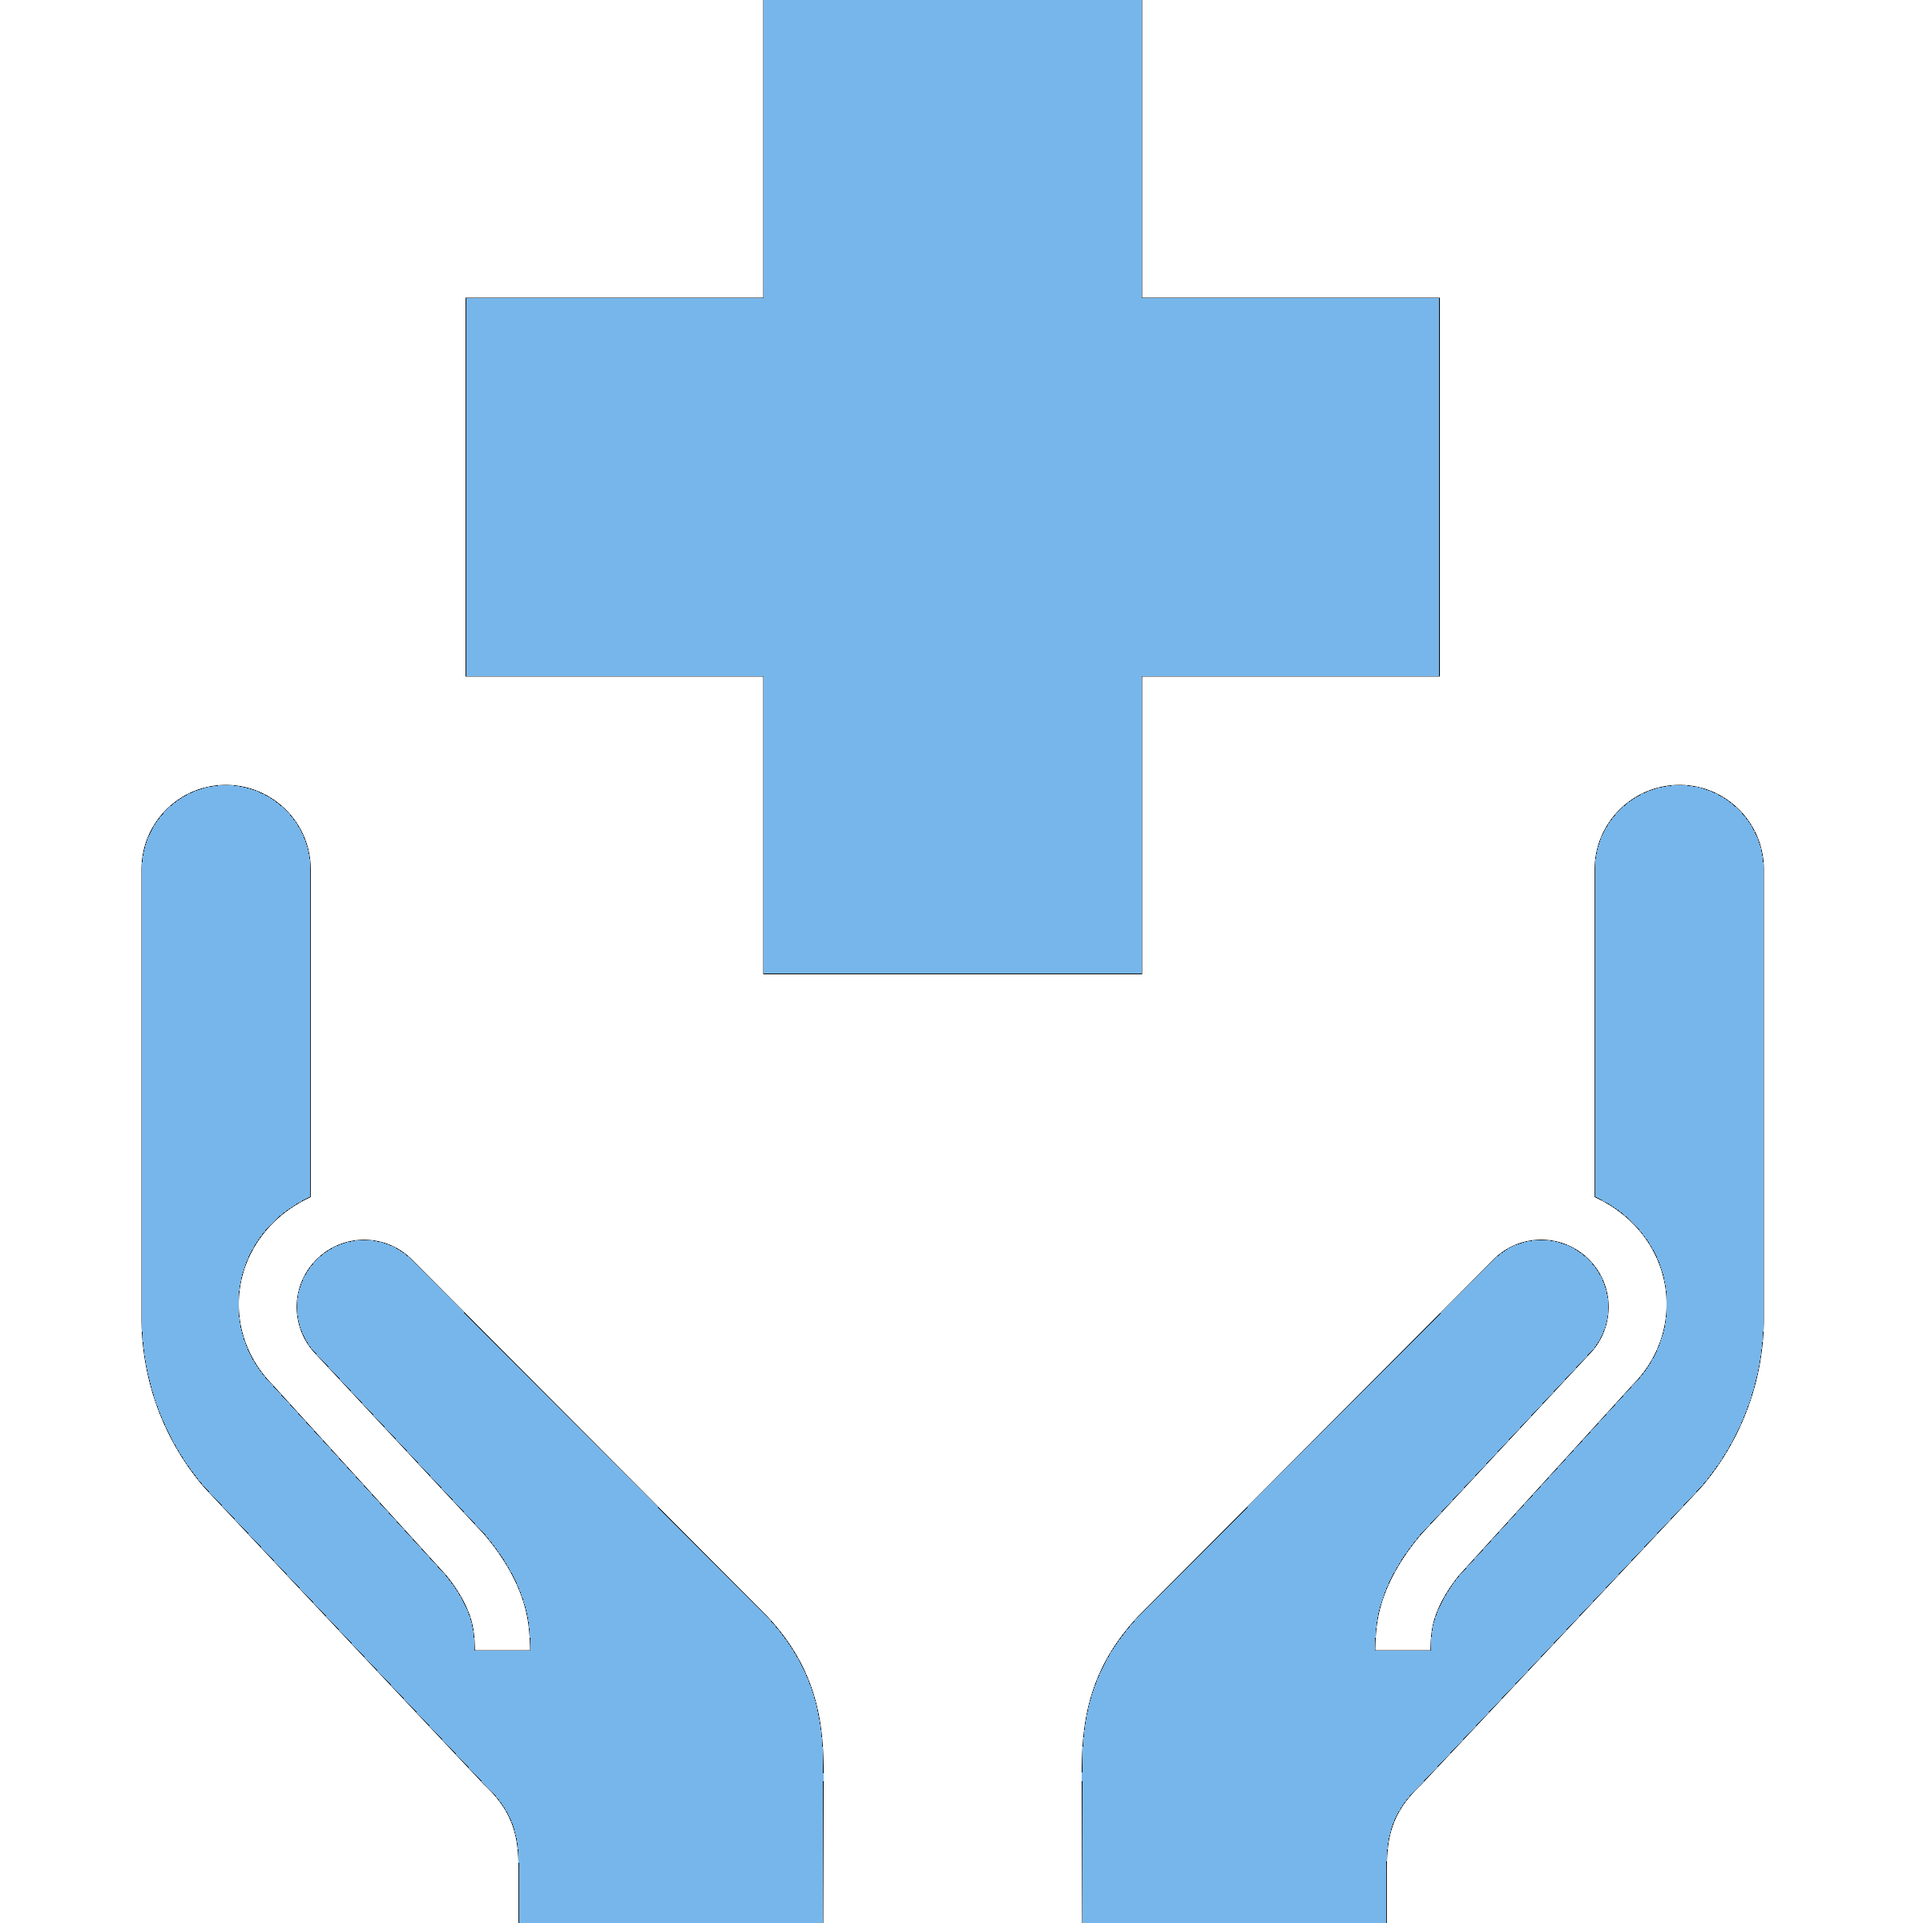
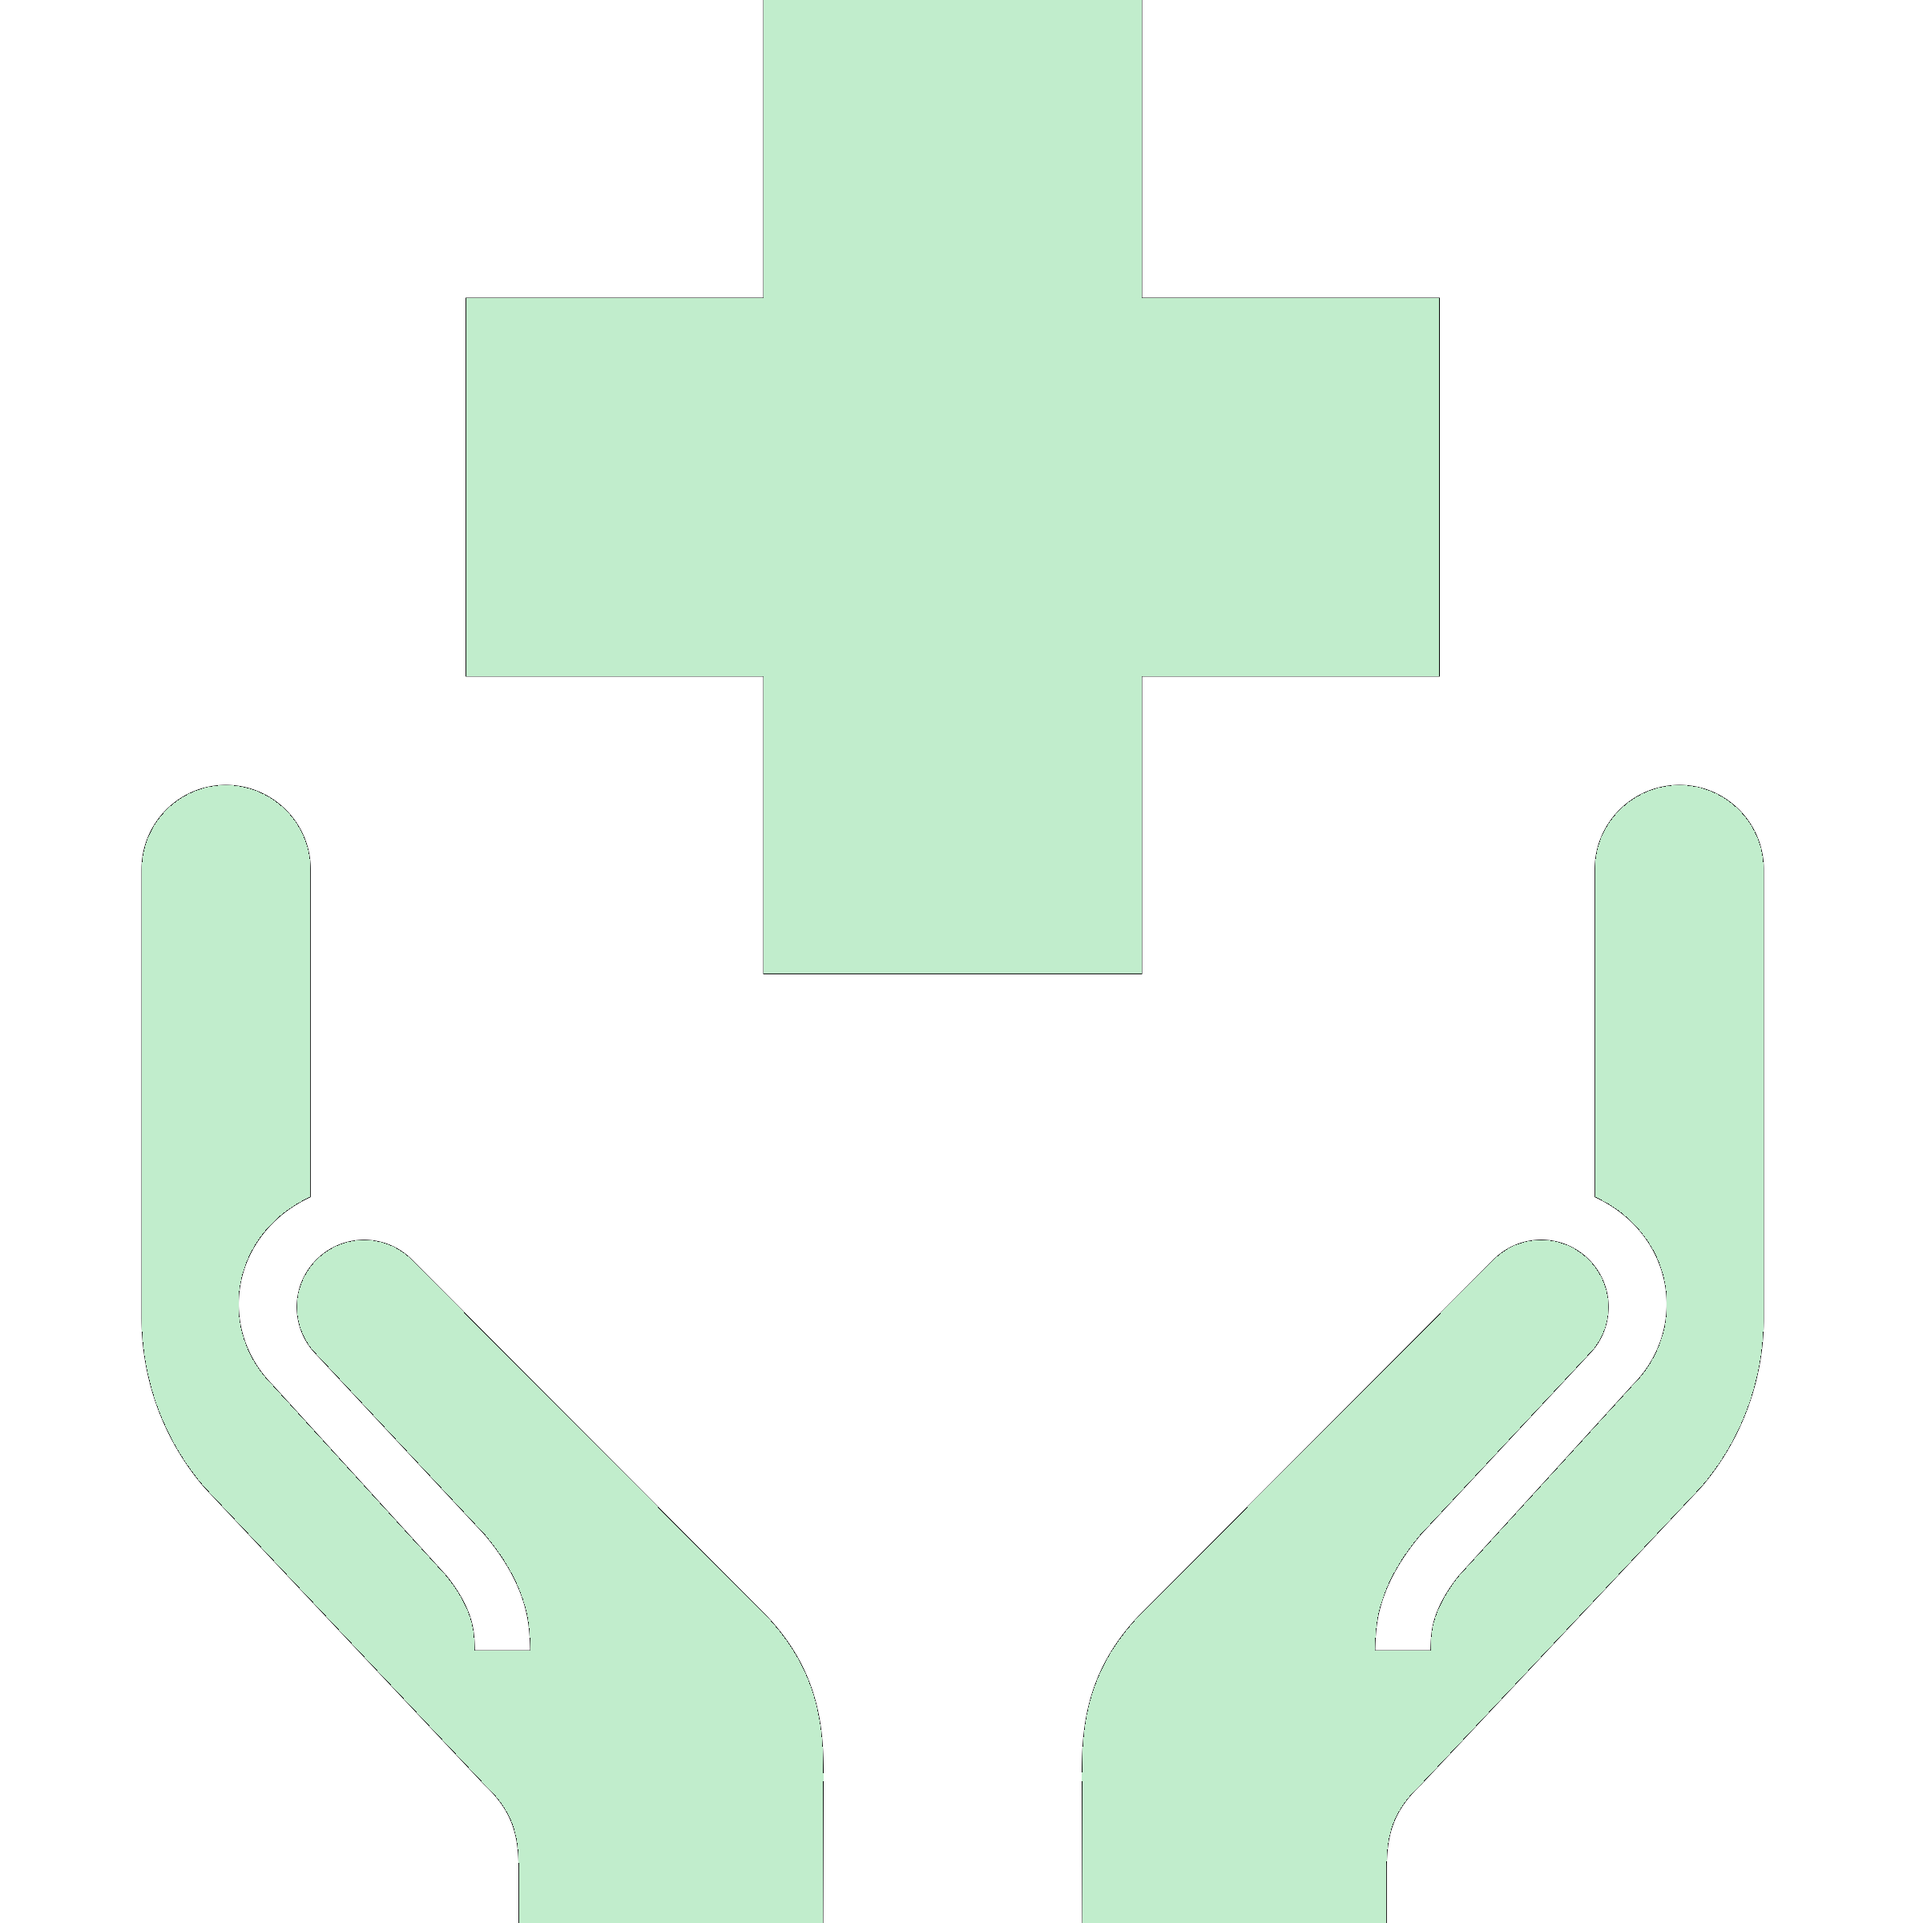
Changed colors

diff --git a/index.html b/index.html
@@ -9,7 +9,7 @@
 		<link rel="icon" type="image/x-icon" href="images/favicon.ico?">
 	</head>
 	<body>
-<div id="dialog" title="User Information"><img id="userImg" style="float:left;height:200px;width:200px;"/><p><strong>Email: </strong></p><span id="userEmail"></span></div>
+<div id="dialog" title="User Information"><img id="userImg" style="float:left;height:200px;width:200px;"/><div id="uInfoDiv" style="clear:both"><p><strong>Email: </strong></p><span id="userEmail"></span></div></div>
 	<script>
 	!function(d,s,id){var js,fjs=d.getElementsByTagName(s)[0],p=/^http:/.test(d.location)?'http':'https';if(!d.getElementById(id)){js=d.createElement(s);js.id=id;js.src=p+"://platform.twitter.com/widgets.js";fjs.parentNode.insertBefore(js,fjs);}}(document,"script","twitter-wjs");
 	</script>
@@ -39,9 +39,8 @@
 							Main
 						</td>
 						<td title="Click to toggle stream focus." id="tdA" class="tdPointer" style="background-color:#F3DAD8;padding:5px;">Announcements</td>
-						<td title="Click to toggle stream focus." id="tdHR" class="tdPointer" style="background-color:#44CCFF;
-							padding:5px;">Human Resources</td>
-						<td title="Click to toggle stream focus." id="tdPH" class="tdPointer" style="background-color:#77B6EA;padding:5px;">Public Health</td>
+						<td title="Click to toggle stream focus." id="tdHR" class="tdPointer" style="background-color:#EAF0CE;padding:5px;">Human Resources</td>
+						<td title="Click to toggle stream focus." id="tdPH" class="tdPointer" style="background-color:#C1EDCC;padding:5px;">Public Health</td>
 						
 						<td id="tdHT" style="background-color:#fff;">Health Topics</td>
 					</tr>

diff --git a/scripts/script.js b/scripts/script.js
@@ -116,9 +116,9 @@ e.preventDefault();
 		$('#chkHR').prop("checked", false);
 		$('#chkA').prop("checked", false);
 		$('#chkPH').prop("checked", false);
-		$('#imgHR').removeClass("borderBottom");
-		$('#imgA').removeClass("borderBottom");
-		$('#imgPH').removeClass("borderBottom");
+		$('#imgHR').addClass("faded");
+		$('#imgA').addClass("faded");
+		$('#imgPH').addClass("faded");
 	}
 	return false;
 });
@@ -173,9 +173,9 @@ function sendMessage(tag, u, av, date, userMsg, combined) {
 		case "HR":
 			styleString = 'style="background-color:';
 			if (numDivs % 2 == 0)
-			styleString += '#44CCFF"';
+			styleString += '#EAF0CE"';
 			else
-			styleString += '#37BFF2"';
+			styleString += '#DDE3C1"';
 			break;
 		case "A":
 			styleString = 'style="background-color:';
@@ -187,9 +187,9 @@ function sendMessage(tag, u, av, date, userMsg, combined) {
 		case "PH":
 			styleString = 'style="background-color:';
 			if (numDivs % 2 == 0)
-			styleString += '#77B6EA"';
+			styleString += '#C1EDCC"';
 			else
-			styleString += '#6AA9DD"';
+			styleString += '#B4E0BF"';
 			break;
 	}
 	if (tag === 'ALL') {
@@ -332,7 +332,7 @@ function selectStream(context) {
 
 function showInfo(email,image) {
 	$('#userImg').attr('src', image);
-	$('#userEmail').html(email);
+	$('#userEmail').html('<a href="mailto:' + email + '">' + email + '</a>');
 	$('#dialog').dialog({
 		hide: 'fade',
 		show: 'fade'

diff --git a/styles/style.css b/styles/style.css
@@ -7,7 +7,7 @@
 body {
     color: #686868;
     margin-top: 114px;
-	min-width: 1400px;
+	min-width: 1450px;
 }
 
 @-moz-document url-prefix() {
@@ -17,7 +17,6 @@ body {
 }
 
 #banner {
-	z-index: 100;
     font-size: 30px;
     text-align: center;
     color: #fff;
@@ -33,7 +32,7 @@ form {
     position: absolute;
 	top: 33px;
     width: 100%;
-	min-width: 1400px;
+	min-width: 1450px;
 }
 form #msgControl input {
     padding: 10px;
@@ -88,7 +87,7 @@ width: 100% !important;
 #btnSubmit {
     width: 100%;
 }
-#tags, #btnControl {
+#tags, #btnControl, #msgControl {
 margin-left: 5px;
 }
 #btnControl {
@@ -162,4 +161,9 @@ td {
 }
 #dialog {
 	display: none;
+}
+
+#uInfoDiv {
+	padding-top: 10px;
+	font-size: .7em;
 }

diff --git a/index.js b/index.js
@@ -98,7 +98,7 @@ io.sockets.on('connection', socketioJwt.authorize({
 io.sockets.on('connection', function(socket) {
 
 	var query = Chat.find({});
-	query.sort('-created').limit(100).exec(function(err,msgs) {
+	query.sort('-created').limit(250).exec(function(err,msgs) {
 		if(err) throw err;
 		socket.emit('load history', msgs);
 	});
